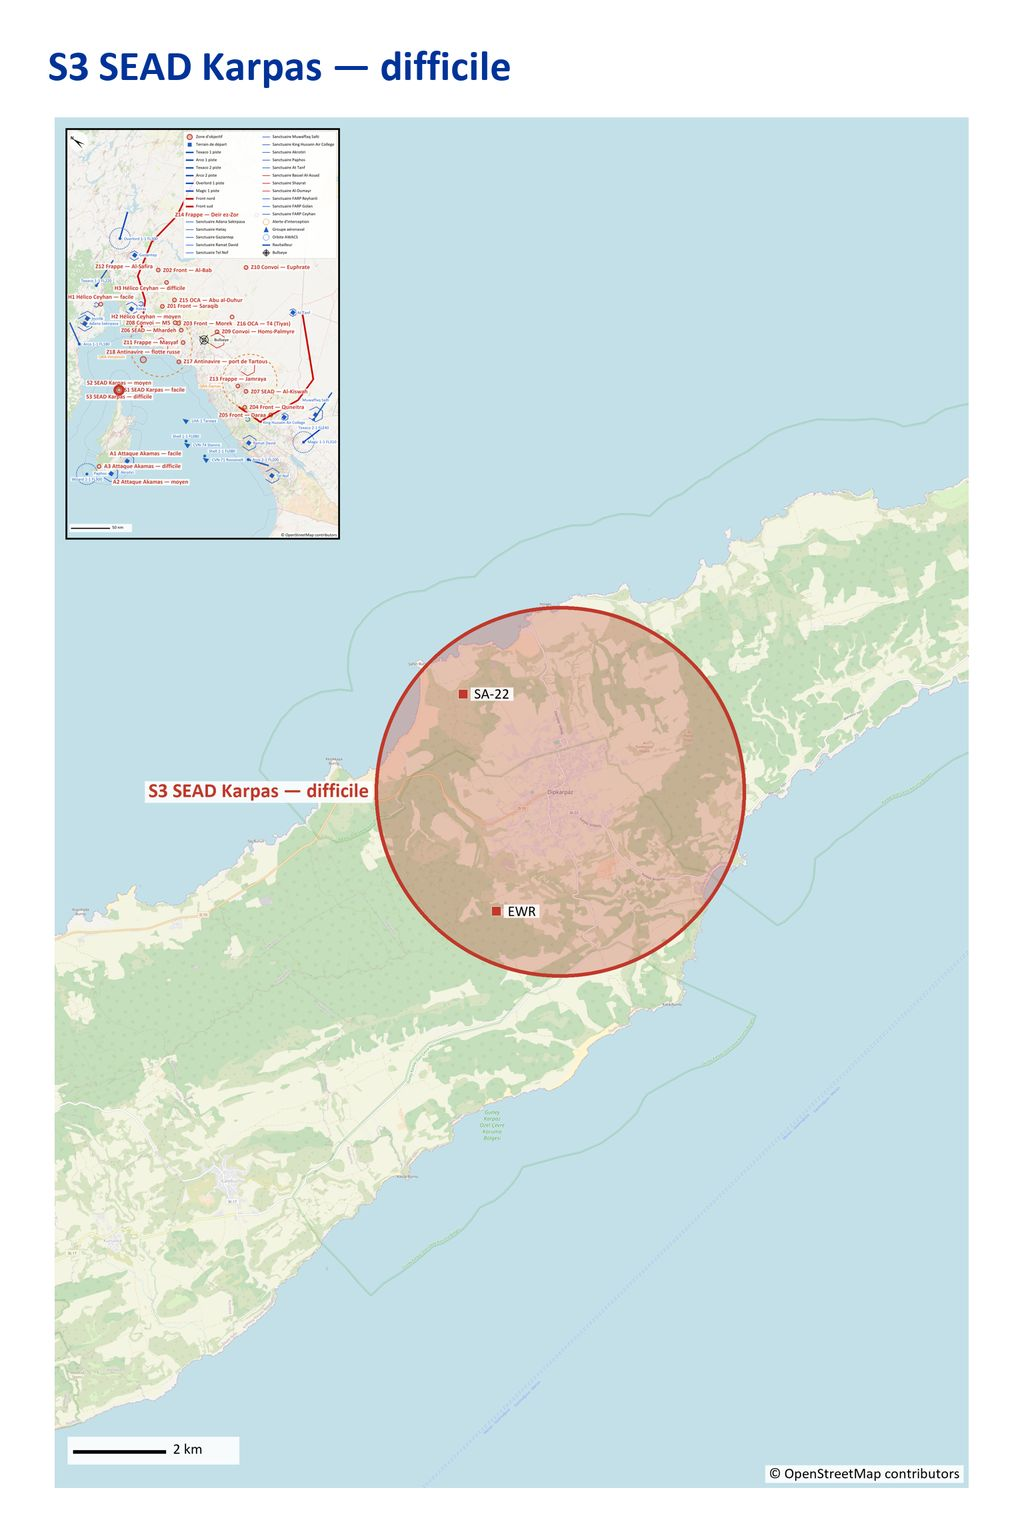
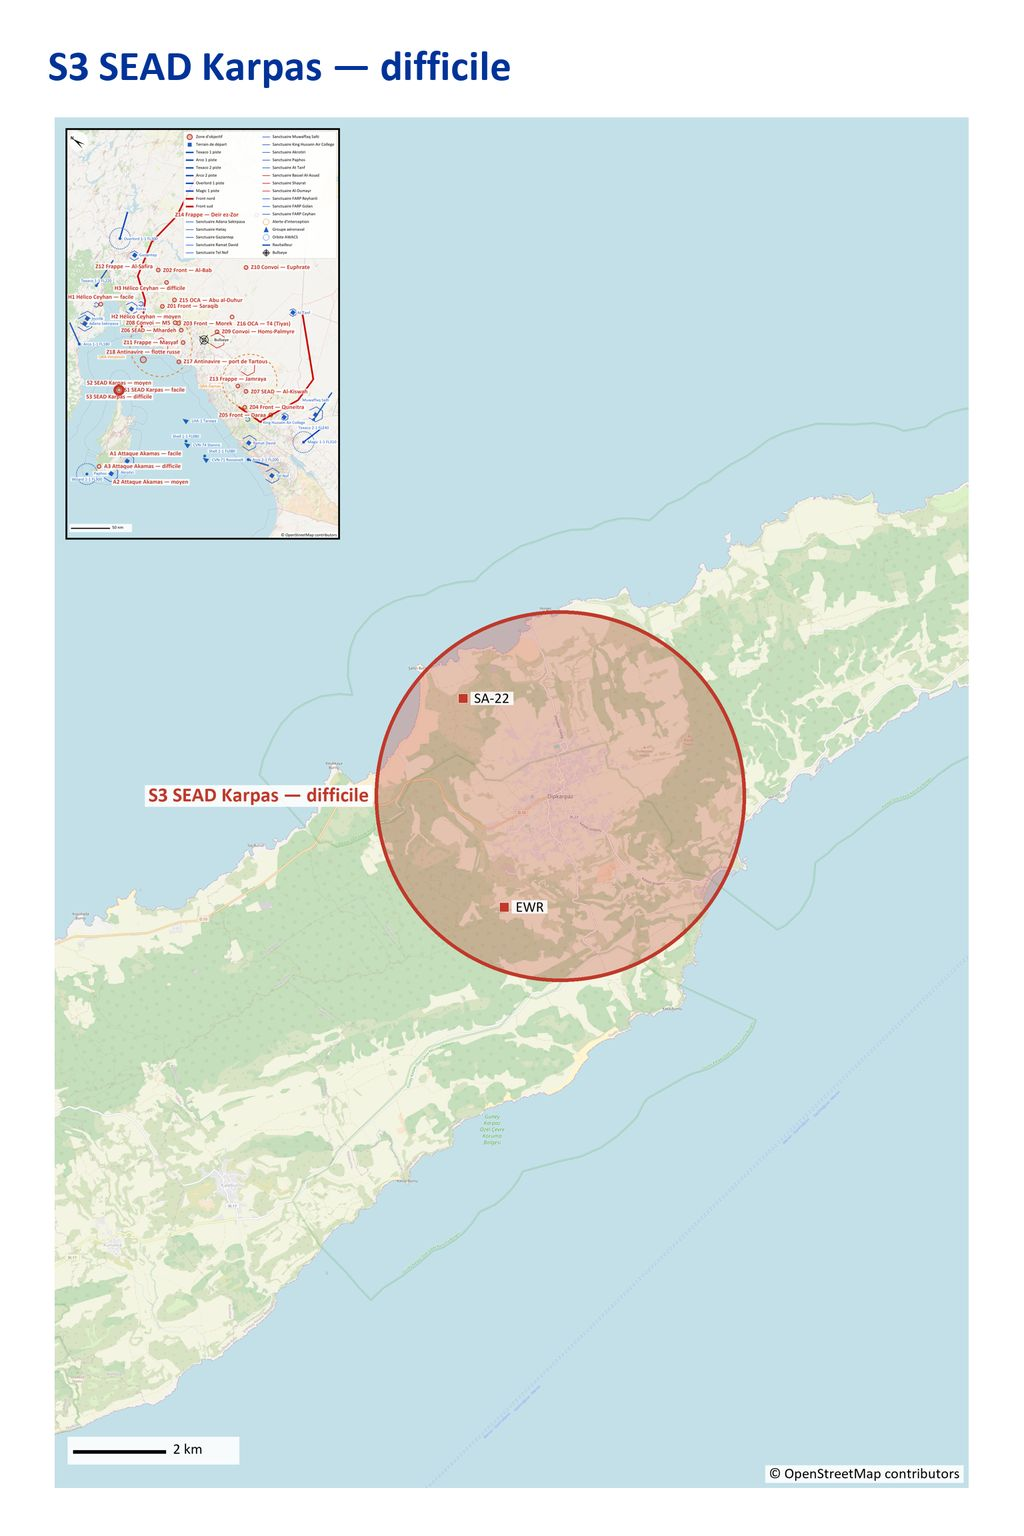
fix(ranges): Akamas and Karpas groups out of the forests forest-check finds
veaf-tools dcs forest-check (VMCT 6.36, reads the forests from the map files)
put Akamas Medium-Armor in a wood and Karpas Medium-SA15 on its edge; David
saw both in the Mission Editor. Each training group in or next to a forest is
shifted by the smallest vector that clears it (50 to 400 m), with
tools/fix_forest_check.py. Rechecked: no training unit or marker left in a
forest.

diff --git a/tools/fix_forest_check.py b/tools/fix_forest_check.py
@@ -1,0 +1,56 @@
+"""Sort des forêts les groupes des champs de tir que `veaf-tools dcs forest-check` y trouve (16/11/2026).
+
+forest-check lit les forêts dans les fichiers de la carte ; sur Syria il dit ce que dessine la carte (David a vu
+Akamas Medium-Armor en pleine forêt et Karpas Medium-SA15 en lisière dans l'éditeur, 16/11/2026).
+Chaque groupe est décalé du plus petit vecteur qui met ses unités au dégagé : centre hors forêt, 8 points à 100 m
+hors forêt et hors de l'eau, au plus 1 sur 8 à 200 m en forêt.
+Une seule fois : il refuse de repasser.
+"""
+
+import sys
+
+from paths import ROOT  # noqa: F401  (met aussi le code VMCT sur sys.path)
+from veaf_mission_mcp.actions import register_default_actions  # noqa: E402
+from veaf_mission_mcp.catalog import ActionCatalog  # noqa: E402
+from veaf_mission_mcp.mission_folder import load_folder_mission  # noqa: E402
+
+sys.stdout.reconfigure(encoding="utf-8")
+M = ROOT.as_posix()
+cat = ActionCatalog()
+register_default_actions(cat)
+
+#: groupe -> (décalage nord, décalage est), en mètres
+MOVES = {
+    "combatZone_Akamas_Easy-Easy-BMP-1": (-35, -35),
+    "combatZone_Akamas_Easy-Easy-BMP-2": (-35, -35),
+    "combatZone_Akamas_Easy-Easy-BMP-3": (-35, -35),
+    "combatZone_Akamas_Easy-Easy-Convoy": (0, 100),
+    "combatZone_Akamas_Medium-Medium-Armor": (400, 0),
+    "combatZone_Karpas_Hard-Hard-EWR": (172, 181),
+    "combatZone_Karpas_Medium-Medium-SA15": (-75, 130),
+}
+GUARD = ("combatZone_Akamas_Medium-Medium-Armor", (15840, -313561))
+
+
+def as_list(t):
+    return [t[k] for k in sorted(t)] if isinstance(t, dict) else (t or [])
+
+
+content = load_folder_mission(ROOT).mission_content
+groups = {
+    g["name"]: g
+    for co in content["coalition"].values()
+    for c in as_list(co.get("country"))
+    for g in as_list((c.get("vehicle") or {}).get("group"))
+}
+unit = as_list(groups[GUARD[0]]["units"])[0]
+if (round(unit["x"]), round(unit["y"])) != GUARD[1]:
+    sys.exit("déjà fait, ou les groupes ne sont plus à la place que ce script attend")
+
+for name, (dx, dz) in MOVES.items():
+    g = groups[name]
+    res = cat.run_action(
+        "set_group_properties", {"mission_path": M, "group_name": name, "move_to": {"x": g["x"] + dx, "y": g["y"] + dz}}
+    )
+    warn = res.get("warnings") if isinstance(res, dict) else None
+    print(f"{name}: +{dx} N, +{dz} E" + (f" — {warn}" if warn else ""))

diff --git a/README.md b/README.md
@@ -337,7 +337,7 @@ Défense permanente des deux camps : courte et moyenne portée sur chaque base a
 | Palmyra-EWR | Radar d'alerte 55G6 | `N34°33.787' E038°13.692'` | `098°/76 nm` |
 | Qasioun-EWR | Radar d'alerte 55G6 | `N33°33.650' E036°14.673'` | `200°/74 nm` |
 | Aleppo-EWR | Radar d'alerte 55G6 | `N36°03.654' E037°24.865'` | `025°/87 nm` |
-| combatZone_Karpas_Hard-Hard-EWR | Radar d'alerte 55G6 | `N35°34.478' E034°21.928'` | `296°/126 nm` |
+| combatZone_Karpas_Hard-Hard-EWR | Radar d'alerte 55G6 | `N35°34.576' E034°22.042'` | `296°/126 nm` |
 
 ## Plan radio
 
